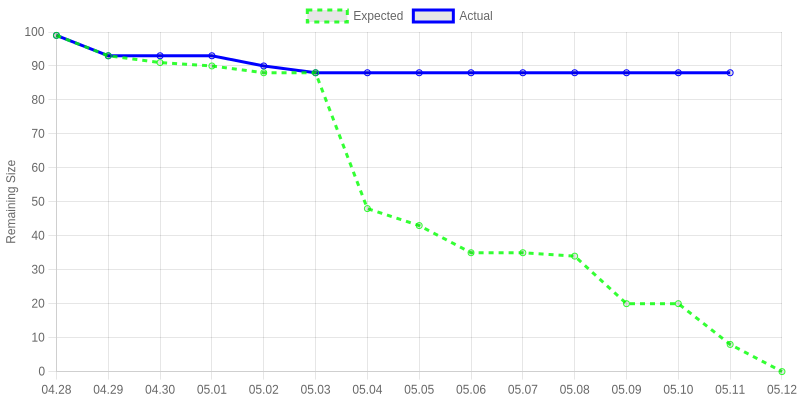
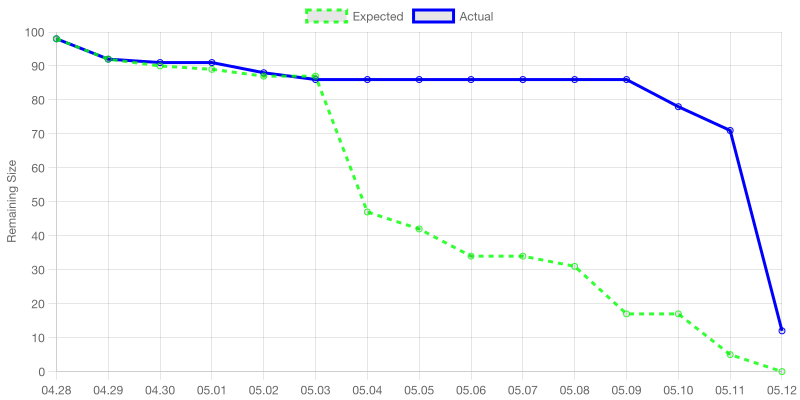
📝 스프린트 1 보고서 회고 부분까지 완성 (#41)

diff --git a/scripts/daily-scrum/src/infrastructures/dailyScrumNotionHqClientRepository.ts b/scripts/daily-scrum/src/infrastructures/dailyScrumNotionHqClientRepository.ts
@@ -1,7 +1,7 @@
 import type { Client } from '@notionhq/client';
 import { MEMBERS } from '../entities/member';
 import { Sprint } from '../entities/sprint';
-import { TaskStatus } from '../entities/task';
+
 import type { getSendDailyScrumUsecase } from '../usecases/sendDailyScrumUsecase';
 import { ensure } from '../utils/ensure';
 
@@ -28,18 +28,18 @@ export const getDailyScrumNotionHqClientRepository = ({
         if (r.object !== 'page' || !('properties' in r)) throw new Error('invalid task');
         const titleProperty = r.properties['이름'];
         const assigneeProperty = r.properties['담당자'];
-        const statusProperty = r.properties['상태'];
         const expectedScheduleProperty = r.properties['예상 일정'];
         const actualScheduleProperty = r.properties['실제 일정'];
         const expectedSizeProperty = r.properties['예상 시간'];
+        const skipProperty = r.properties['스킵'];
 
         if (
           titleProperty.type !== 'title' ||
           assigneeProperty.type !== 'people' ||
           expectedScheduleProperty.type !== 'date' ||
           actualScheduleProperty.type !== 'date' ||
-          statusProperty.type !== 'status' ||
-          expectedSizeProperty.type !== 'number'
+          expectedSizeProperty.type !== 'number' ||
+          skipProperty.type !== 'checkbox'
         )
           throw new Error('invalid notion task');
 
@@ -54,13 +54,7 @@ export const getDailyScrumNotionHqClientRepository = ({
             start: new Date(actualScheduleProperty.date.start),
             end: new Date(ensure(actualScheduleProperty.date.end)),
           },
-          status: ensure(
-            {
-              '시작 전': TaskStatus.TODO,
-              '진행 중': TaskStatus.IN_PROGRESS,
-              완료: TaskStatus.DONE,
-            }[ensure(statusProperty.status).name],
-          ),
+          skip: skipProperty.checkbox,
           expectedSize: ensure(expectedSizeProperty.number),
         };
       });

diff --git a/scripts/daily-scrum/src/usecases/sendDailyScrumUsecase.ts b/scripts/daily-scrum/src/usecases/sendDailyScrumUsecase.ts
@@ -1,6 +1,6 @@
 import type { PullRequest } from '../entities/github';
 import { SPRINT_SCHEDULE_MAP, Sprint } from '../entities/sprint';
-import { type Task, TaskStatus } from '../entities/task';
+import type { Task } from '../entities/task';
 import { ensure } from '../utils/ensure';
 
 export type SendDailyScrumUsecase = {
@@ -20,10 +20,7 @@ export const getSendDailyScrumUsecase = ({
     getAllOpenPullRequests: () => Promise<PullRequest[]>;
   };
   slackPresenter: {
-    sendDailyScrum: (_: {
-      tasks: Task[];
-      burndownChart: Blob;
-    }) => Promise<void>;
+    sendDailyScrum: (_: { tasks: Task[]; burndownChart: Blob }) => Promise<void>;
     sendAwaitingReviews: (_: { pullRequests: PullRequest[] }) => Promise<void>;
   };
   burndownChartPresenter: {
@@ -56,11 +53,7 @@ export const getSendDailyScrumUsecase = ({
 
       await slackPresenter.sendDailyScrum({
         tasks: tasks
-          .filter(
-            (task) =>
-              task.status !== TaskStatus.DONE &&
-              task.expectedSchedule.start.getTime() <= Date.now(),
-          )
+          .filter((task) => task.expectedSchedule.start.getTime() <= Date.now())
           .toSorted((a, b) => a.expectedSchedule.end.getTime() - b.expectedSchedule.end.getTime()),
         burndownChart: burndownChartImage,
       });

diff --git a/scripts/generate-sprint-report/src/main.ts b/scripts/generate-sprint-report/src/main.ts
@@ -20,7 +20,10 @@ if (!(await Bun.file(reportMarkdownPath).exists())) {
 }
 
 const run = async () => {
-  const pdf = await mdToPdf({ path: reportMarkdownPath });
+  const pdf = await mdToPdf(
+    { path: reportMarkdownPath },
+    { css: 'h1 { page-break-before: always; }' },
+  );
 
   const pdfPath = path.resolve(outputDirectory, `${filename}.pdf`);
   await Bun.file(pdfPath).write(pdf.content);

diff --git a/scripts/daily-scrum/src/infrastructures/dailyScrumBurndownChartPresenter/index.test.ts b/scripts/daily-scrum/src/infrastructures/dailyScrumBurndownChartPresenter/index.test.ts
@@ -27,7 +27,7 @@ test('getChartData', () => {
       now: new Date('2025-05-03'),
     }),
   ).toStrictEqual({
-    actualValues: [9, 9, 9, 9, 7, 7, null, null, null, null, null, null, null, null, null],
+    actualValues: [9, 9, 9, 9, 7, 7, 7, null, null, null, null, null, null, null, null],
     expectedValues: [9, 6, 4, 4, 4, 4, 4, 0, 0, 0, 0, 0, 0, 0, 0],
     labels: [
       '04.28',

diff --git a/scripts/daily-scrum/src/entities/task.ts b/scripts/daily-scrum/src/entities/task.ts
@@ -1,16 +1,10 @@
 import type { Member } from './member';
 
-export enum TaskStatus {
-  TODO = 'TODO',
-  IN_PROGRESS = 'IN_PROGRESS',
-  DONE = 'DONE',
-}
-
 export type Task = {
   title: string;
   assignee: Member;
   expectedSchedule: { start: Date; end: Date };
   actualSchedule: { start: Date; end: Date } | null;
-  status: TaskStatus;
+  skip: boolean;
   expectedSize: number;
 };

diff --git a/scripts/daily-scrum/src/infrastructures/dailyScrumBurndownChartPresenter/index.ts b/scripts/daily-scrum/src/infrastructures/dailyScrumBurndownChartPresenter/index.ts
@@ -68,7 +68,7 @@ export const getChartData = ({
       const DAY = 1000 * 60 * 60 * 24;
       const date = new Date(schedule.start.getTime() + DAY * i);
 
-      const isNotYet = date.getTime() > now.getTime();
+      const isNotYet = date.getTime() > now.getTime() + DAY;
 
       return {
         label: [date.getMonth() + 1, date.getDate()]

diff --git a/README.md b/README.md
@@ -24,9 +24,10 @@
 
 | 폴더 | 설명 |
 | --- | --- |
-| [wiki](./wiki) | 게임 위키 문서 |
+| [reports](./reports) | 스프린트 보고서 |
 | [scripts](./scripts) | 팀 자동화 도구들 |
 | [SchoolRush](./SchoolRush) | Unity 게임 |
+| [wiki](./wiki) | 게임 위키 문서 |
 
 ### Git 컨벤션
 
